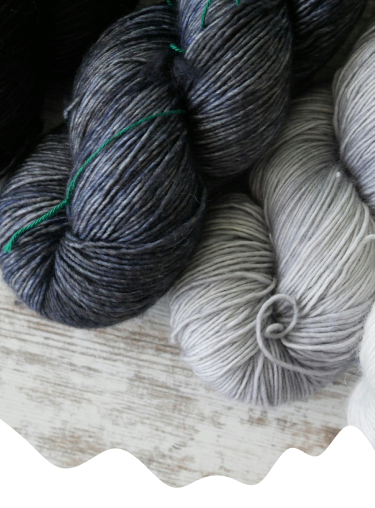
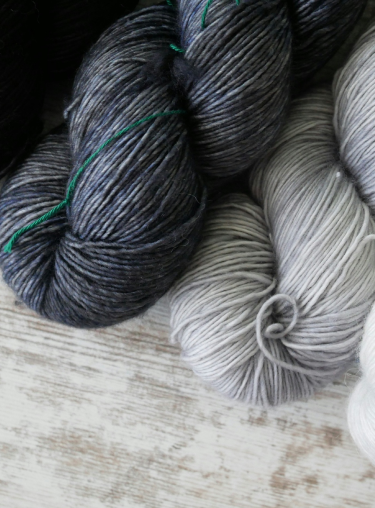
✅ Update HeroBanner component with responsive background images

Changed region(s): [[0.0, 0.8268, 1.0, 1.0]]

diff --git a/components/layout/HeroBanner.jsx b/components/layout/HeroBanner.jsx
@@ -1,12 +1,22 @@
 import { Button } from "@/components/ui/button.jsx";
+import Image from "next/image.js";
+import svgMobile from "/public/assets/images/background/mobile.svg";
 
 export function HeroBanner() {
   return (
     <section>
       <div className="relative h-[475px]">
         <div className="background"></div>
-        <div className="absolute w-full pb-12 top-1/2 left-1/2 container -translate-y-1/2 -translate-x-1/2 md:text-center lg:text-left">
-          <h1 className="320:text-2xl 388:text-4xl lg:text-6xl sm:text-center lg:text-left">
+        <picture className=" w-full absolute -bottom-2 md:-bottom-8 lg:-bottom-0 block">
+          <source
+            srcSet="/assets/images/background/desktop.svg"
+            media="(min-width: 1024px)"
+          />
+          <Image src={svgMobile} alt="" className="w-full" />
+        </picture>
+
+        <div className="absolute w-full pb-12 md:pb-32 top-1/2 left-1/2 container -translate-y-1/2 -translate-x-1/2 md:text-center lg:text-left">
+          <h1 className="320:text-2xl 388:text-4xl md:text-5xl lg:text-7xl text-left">
             La Petite Boutique D&apos;Ephée
           </h1>
           <p className="mt-7 text-lg lg:ml-0 text-left text-pretty">
@@ -15,7 +25,7 @@ export function HeroBanner() {
             Des créations authentiques, mêlant originalité et qualité
             artisanale.
           </p>
-          <div className="mt-16 flex justify-between gap-8 flex-wrap 320:mt-8 sm:justify-center lg:justify-start">
+          <div className="mt-16 flex 320:mt-8 justify-start">
             <Button variant="secondary" size="default">
               Nos produits
             </Button>
